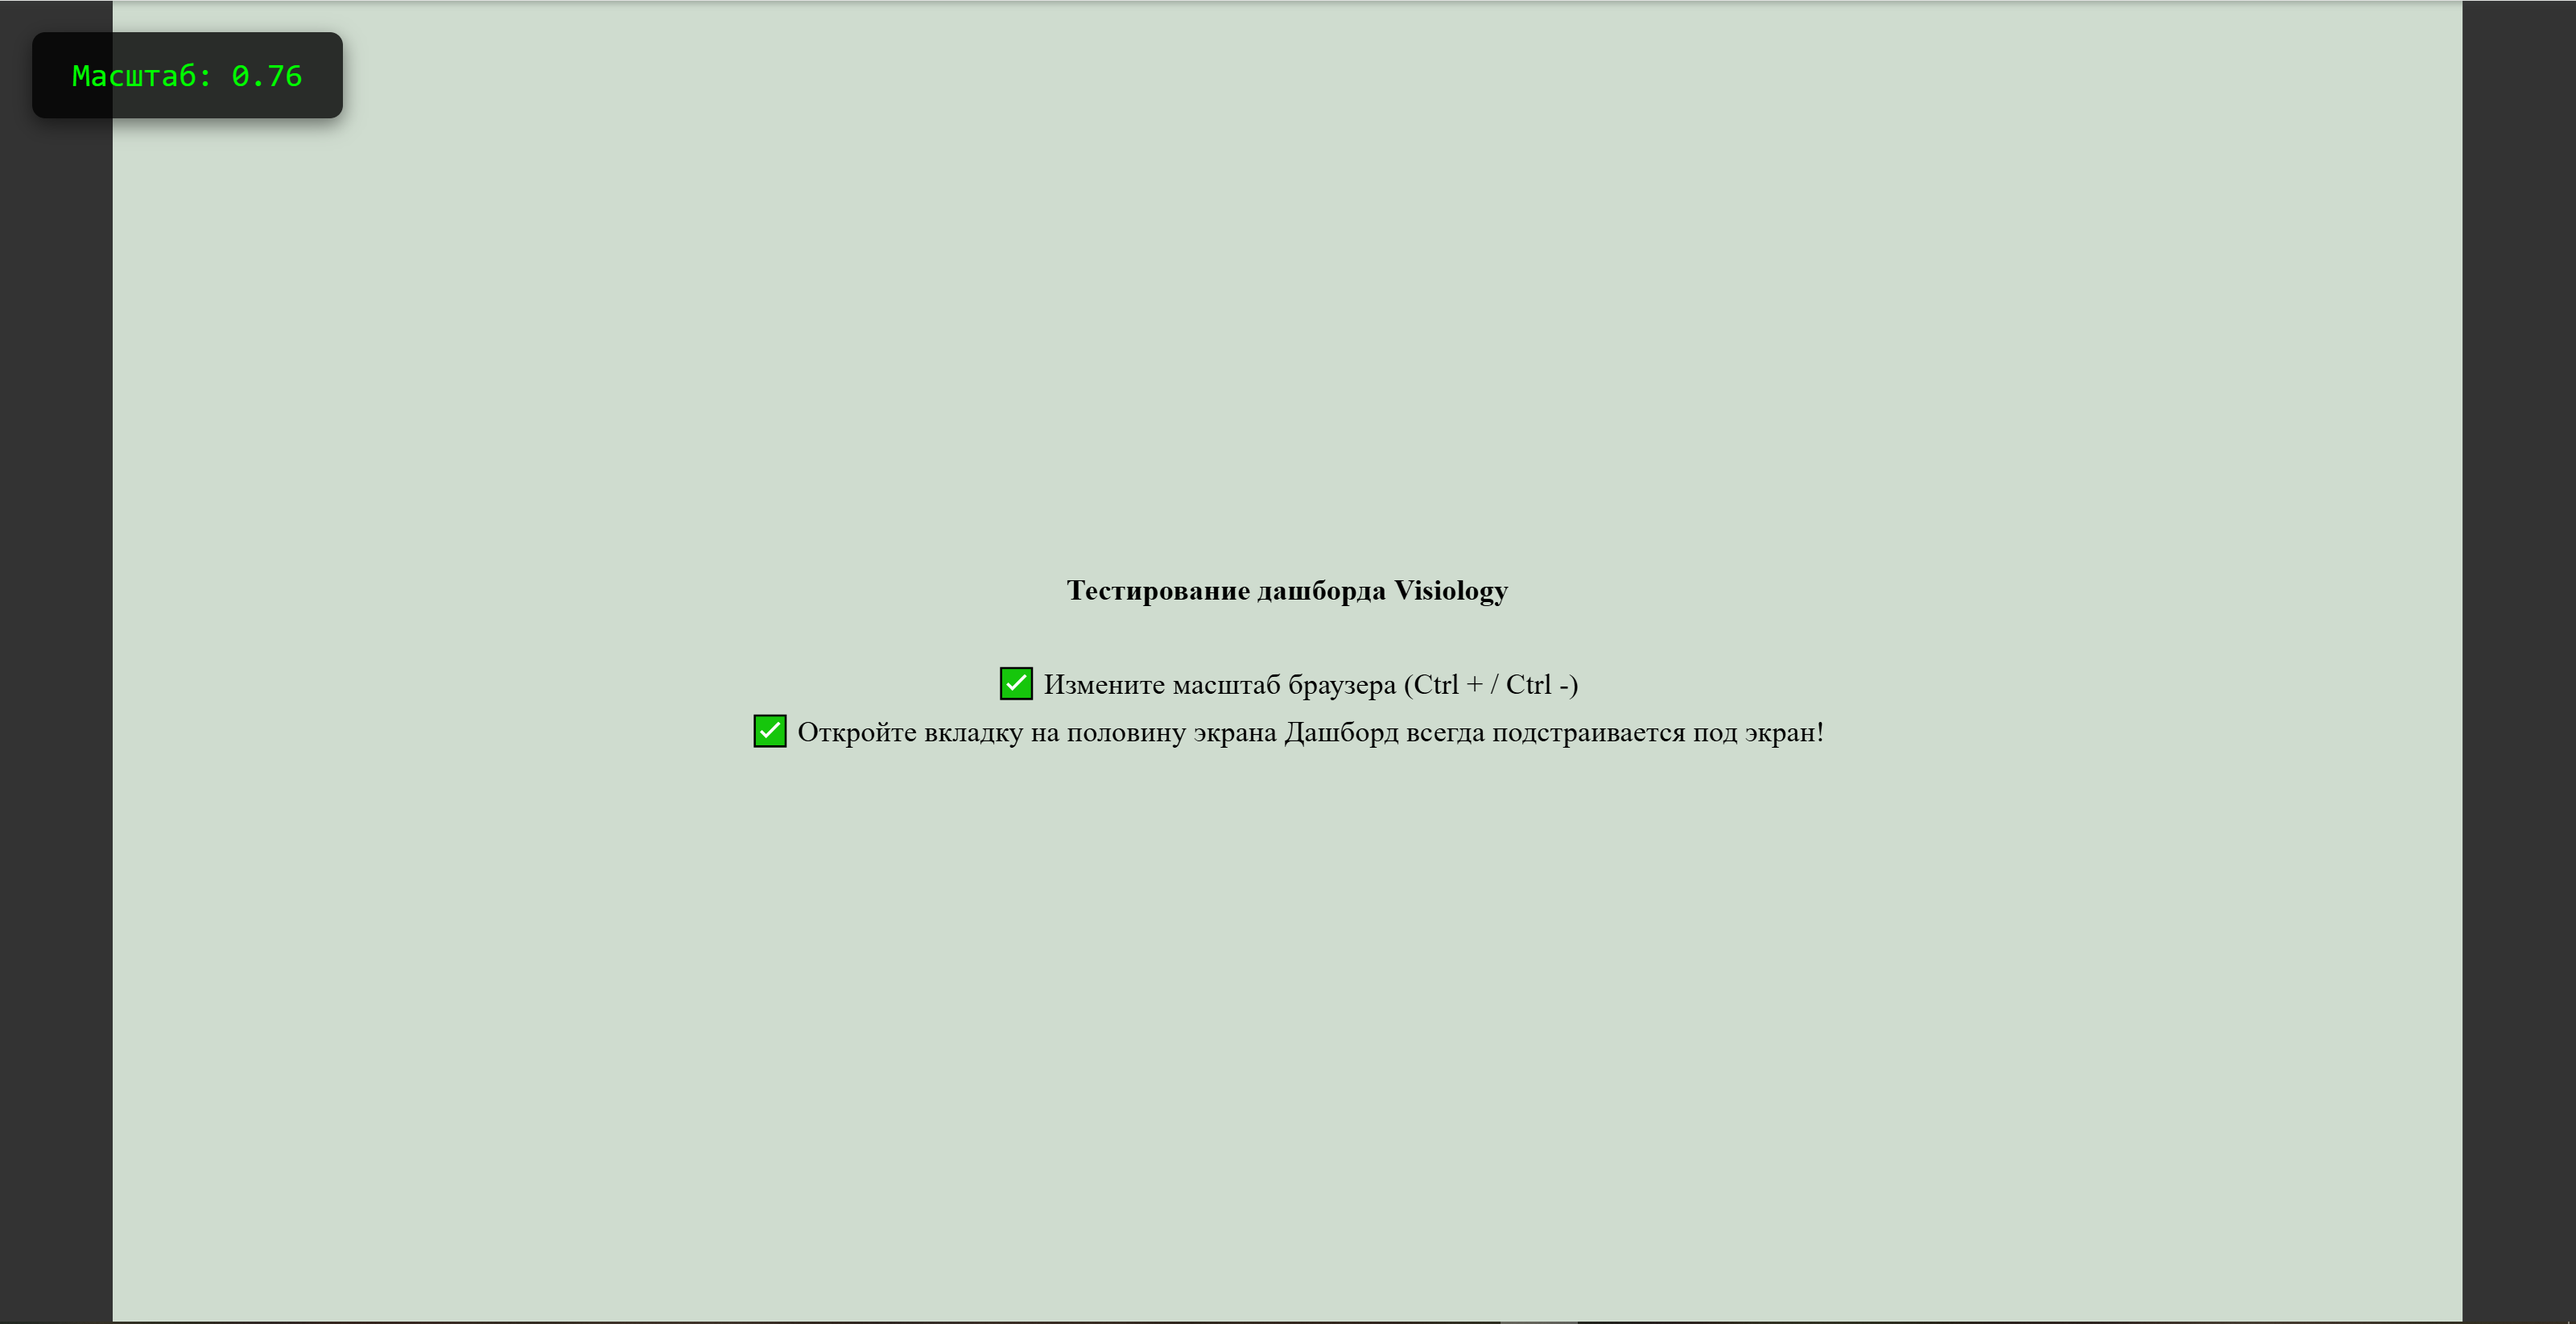
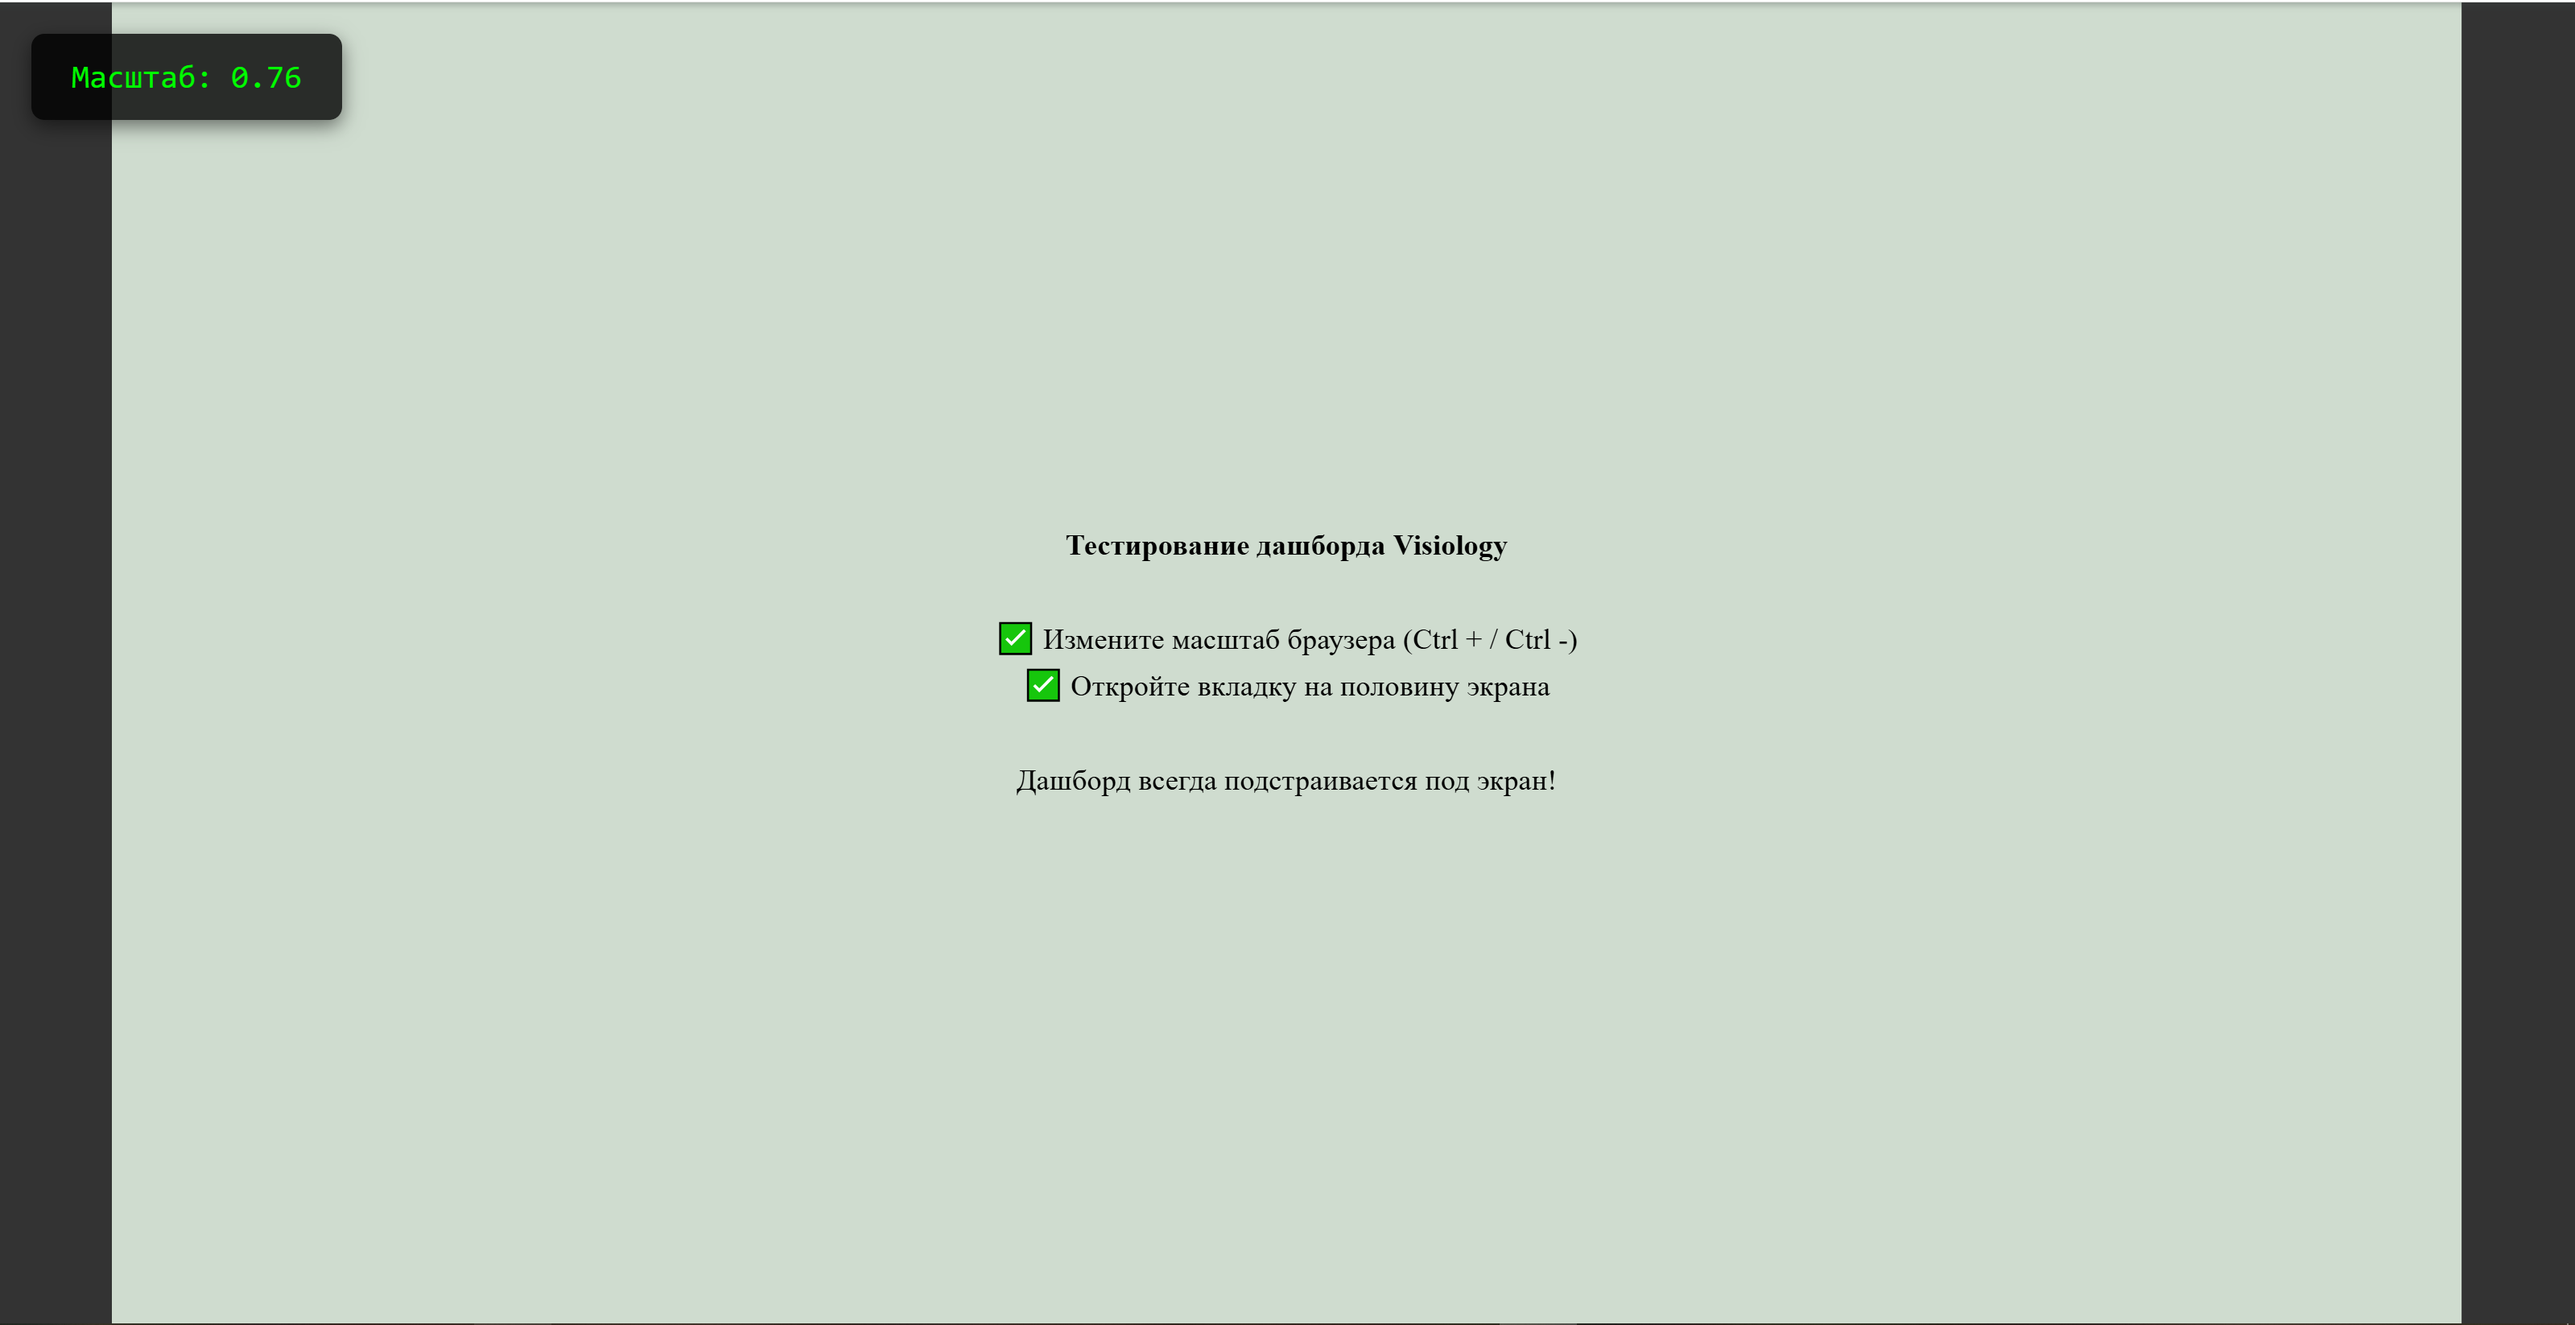
DashboardViewport v1.0.3

Changed region(s): [[0.2785, 0.403, 0.7118, 0.6201], [0.0309, 0.0, 0.0619, 0.062]]

diff --git a/DashboardScale Simulator/utility.html b/DashboardScale Simulator/utility.html
@@ -75,7 +75,9 @@
 
 
         ✅ Измените масштаб браузера (Ctrl + / Ctrl -) <br>
-        ✅ Откройте вкладку на половину экрана
+        ✅ Откройте вкладку на половину экрана  <br>
+
+        <br>
 
 
         Дашборд всегда подстраивается под экран!
